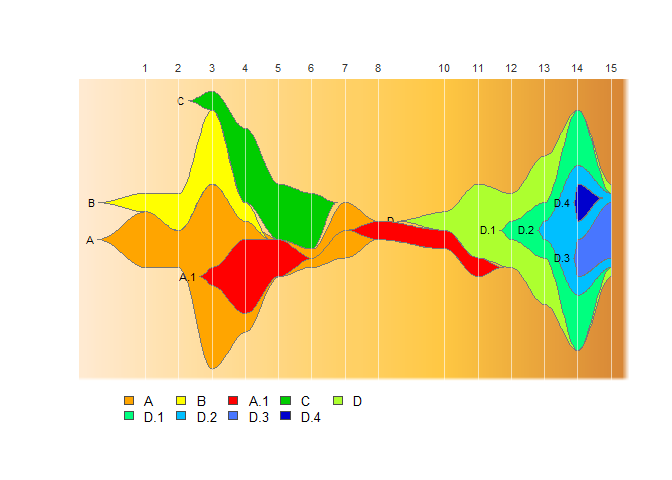
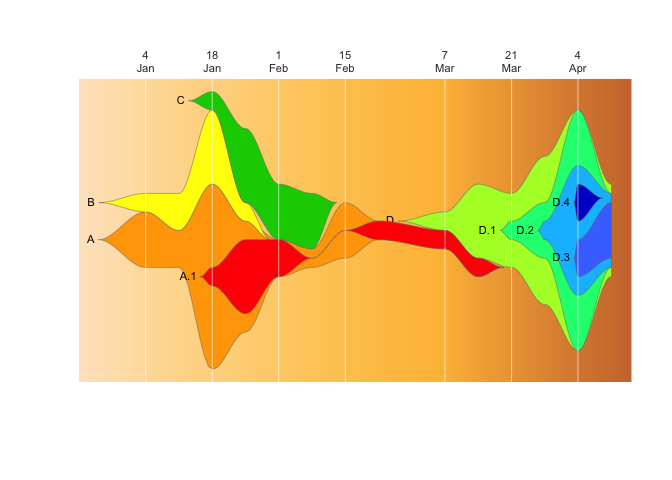
adding quick-start example to README

diff --git a/README.md b/README.md
@@ -11,24 +11,36 @@ This package provides tools to use Chris Miller’s fishplot package
 (<https://github.com/chrisamiller/fishplot>) with epidemiological
 datasets, to generate fishplot epi-curves.
 
-**Why?**  
-A count matrix for a fishplot has a set of specific rules which an
-epidemiological dataset will not naturally fulfil:
+**Why?**
 
-  - cluster counts can never go completely to zero, if cases reappear
-    later
+A fishplot is variety of
+[streamgraph](https://www.data-to-viz.com/graph/streamgraph.html), which
+is designed specifically for categorical data where where individual
+categories can mutate to form subcategories. Originally designed for
+[plotting evolution of tumor cell
+lineages,](https://bmcgenomics.biomedcentral.com/articles/10.1186/s12864-016-3195-z)
+we have found fishplots especially useful for illustrating the rise and
+fall of genomic clusters in disease outbreaks, which can have a similar
+evolutionary pattern.
+
+However, a count matrix for a fishplot has a set of specific rules which
+an epidemiological dataset will not naturally fulfill:
+
+  - cluster counts per timepoint can never go completely to zero, if
+    cases reappear later
   - if a cluster has a parent/child relationship, at every timepoint the
     parent must always have \>= the count of all its children.
   - counts should be normalised to fit the fishplot y-axis
 
-This package exists to make it easy to convert a list of samples into a
-normalised and appropriately “padded” relative count matrix that fulfils
-these requirements.
+This package exists to make it easy to convert a list of samples in an
+epidemological dataset into a normalised and appropriately “padded”
+relative count matrix that fulfils these requirements.
 
 ## Contents
 
   - [Installation](#installation)
-  - [Quick demo](#quick-demo)
+  - [Quick start](#quick-start)
+  - [Basic demo](#basic-demo)
   - [Input format](#input-format)
   - [Output](#output)
   - [Extras](#extras)
@@ -57,7 +69,53 @@ library(devtools)
 devtools::install_github("learithe/epifish")
 ```
 
+## Quick Start
+
+To get started with a basic epi fishplot, given an input file in the
+right format (details below), this is all you need:
+
+``` r
+# load required libraries
+library(fishplot); library(dplyr); library(tidyr); library(lubridate); library(epifish)
+
+# read data file
+sample_df <- read.csv("inst/extdata/samples.csv", stringsAsFactors=FALSE)
+
+# run epifish 
+epifish_output <- epifish::build_epifish( sample_df )
+
+# run fishplot on the epifish output
+fishplot::fishPlot( epifish_output$fish, shape="spline" )  
+```
+
+<img src="man/figures/README-unnamed-chunk-3-1.png" width="100%" />
+
+**If you want to include evolutionary relationships with subclusters:**
+
+``` r
+# load required libraries
+library(fishplot); library(dplyr); library(tidyr); library(lubridate); library(epifish)
+
+# read data files
+sample_df <- read.csv("inst/extdata/samples.csv", stringsAsFactors=FALSE)
+parent_df <- read.csv("inst/extdata/parents.csv", stringsAsFactors=FALSE)
+
+# run epifish 
+epifish_output <- epifish::build_epifish( sample_df, parent_df )
+
+# run fishplot on the epifish output
+fishplot::fishPlot( epifish_output$fish, shape="spline" )  
+```
+
+<img src="man/figures/README-unnamed-chunk-5-1.png" width="100%" />
+
 ## Quick demo
+
+*This demo expands on the quick-start example. It runs on a set of
+example data that is present within the epifish package, the files can
+be accessed here, in the
+[`inst/extdata`](https://github.com/learithe/epifish/tree/main/inst/extdata)
+directory.* <br><br>
 
 Load epifish and required
 packages
@@ -66,14 +124,14 @@ packages
 library(fishplot); library(dplyr); library(tidyr); library(lubridate); library(epifish)
 ```
 
-Read in the table of sample data, parent-child relationships, and custom
-colour
+Read in the tables of sample data, cluster parent-child relationships,
+and custom colour
 scheme:
 
 ``` r
-sample_df <- read.csv("epifish/inst/extdata/samples.csv", stringsAsFactors=FALSE)
-parent_df <- read.csv("epifish/inst/extdata/parents.csv", stringsAsFactors=FALSE)
-colour_df <- read.csv("epifish/inst/extdata/colours.csv", stringsAsFactors=FALSE)
+sample_df <- read.csv("inst/extdata/samples.csv", stringsAsFactors=FALSE)
+parent_df <- read.csv("inst/extdata/parents.csv", stringsAsFactors=FALSE)
+colour_df <- read.csv("inst/extdata/colours.csv", stringsAsFactors=FALSE)
 ```
 
 Use epifish to convert this into a fishplot object, with extra assorted
@@ -82,6 +140,11 @@ information:
 
 ``` r
 epifish_output <- epifish::build_epifish( sample_df, parent_df=parent_df, colour_df=colour_df)
+#> setting parent position of child A.1  to  1 
+#> setting parent position of child D.3  to  7 
+#> setting parent position of child D.2  to  6 
+#> setting parent position of child D.1  to  5 
+#> setting parent position of child D.4  to  7 
 #> Padding parent values in matrix: 
 #> adding child  D.4  to parent  D.2 
 #> adding child  D.3  to parent  D.2 
@@ -99,7 +162,7 @@ fishplot::fishPlot(epifish_output$fish, pad.left=0.1, shape="spline",
 fishplot::drawLegend(epifish_output$fish, nrow=1)
 ```
 
-<img src="man/figures/README-unnamed-chunk-4-1.png" width="100%" />
+<img src="man/figures/README-unnamed-chunk-7-1.png" width="100%" />
 
 If you’re happy with the default colours, or all your clusters are
 independent, you don’t need those dataframes:
@@ -113,12 +176,12 @@ fishplot::fishPlot(epifish_output$fish, pad.left=0.1, shape="spline",
 fishplot::drawLegend(epifish_output$fish, nrow=1)
 ```
 
-<img src="man/figures/README-unnamed-chunk-5-1.png" width="100%" />
+<img src="man/figures/README-unnamed-chunk-8-1.png" width="100%" />
 
 You also can automatically collapse any clusters of a minimum size into
 a group with `min_cluster_size`:  
-*Note: this does not work with parent/child relationships if any child
-clusters are
+*Note: this currently does not work well with parent/child relationships
+if any child clusters are
 small\!*
 
 ``` r
@@ -133,14 +196,15 @@ fishplot::fishPlot(epifish_output$fish, pad.left=0.1, shape="spline", vlines=epi
 fishplot::drawLegend(epifish_output$fish, nrow=1)
 ```
 
-<img src="man/figures/README-unnamed-chunk-6-1.png" width="100%" />
+<img src="man/figures/README-unnamed-chunk-9-1.png" width="100%" />
 
 ## Input format
 
 Example input files/templates can be found in the `inst/extdata` folder
 in this repository. The basic requirement is a data frame containing one
 row per sample, with columns `cluster_id` and `timepoint` (any other
-columns are ignored).
+columns are ignored). Optionally, the `timepoint` column can be
+calculated using epifish from a column of dates (see below).
 
 Optional data frames may also be provided that describe parent-child
 relationships for clusters (eg cluster A.1 evolved from cluster A), or a
@@ -530,7 +594,8 @@ D.2
 
 </table>
 
-**a custom colour scheme:**
+**a custom colour scheme:** (Note that you can use named ggplot colours,
+or hex codes (eg “red” or “\#ff0000”) )
 
 <table>
 
@@ -744,6 +809,11 @@ This is the extra summary data that epifish creates:
 ``` r
 
 epifish_output <- epifish::build_epifish( sample_df, parent_df=parent_df, colour_df=colour_df)
+#> setting parent position of child A.1  to  1 
+#> setting parent position of child D.3  to  7 
+#> setting parent position of child D.2  to  6 
+#> setting parent position of child D.1  to  5 
+#> setting parent position of child D.4  to  7 
 #> Padding parent values in matrix: 
 #> adding child  D.4  to parent  D.2 
 #> adding child  D.3  to parent  D.2 
@@ -1227,6 +1297,11 @@ sample_df$timepoint_label <- sample_df$epiweek_label
 
 #tell epifish to use the "timepoint_label" column we just created
 epifish_output <- epifish::build_epifish( sample_df, parent_df, colour_df, timepoint_labels=TRUE)
+#> setting parent position of child A.1  to  1 
+#> setting parent position of child D.3  to  7 
+#> setting parent position of child D.2  to  6 
+#> setting parent position of child D.1  to  5 
+#> setting parent position of child D.4  to  7 
 #> Padding parent values in matrix: 
 #> adding child  D.4  to parent  D.2 
 #> adding child  D.3  to parent  D.2 
@@ -1240,7 +1315,7 @@ fishplot::fishPlot(epifish_output$fish, pad.left=0.1, shape="spline",
 fishplot::drawLegend(epifish_output$fish, nrow=1)
 ```
 
-<img src="man/figures/README-unnamed-chunk-12-1.png" width="100%" />
+<img src="man/figures/README-unnamed-chunk-15-1.png" width="100%" />
 
 #### Use epi months as timepoints:
 
@@ -1261,6 +1336,11 @@ sample_df <- sample_df %>% rowwise() %>%
 
 #tell epifish to use the "timepoint_label" column we created above
 epifish_output <- epifish::build_epifish( sample_df, parent_df, colour_df, timepoint_labels=TRUE)
+#> setting parent position of child A.1  to  1 
+#> setting parent position of child D.3  to  7 
+#> setting parent position of child D.2  to  6 
+#> setting parent position of child D.1  to  5 
+#> setting parent position of child D.4  to  7 
 #> Padding parent values in matrix: 
 #> adding child  D.4  to parent  D.2 
 #> adding child  D.3  to parent  D.2 
@@ -1275,7 +1355,7 @@ fishplot::fishPlot(epifish_output$fish, pad.left=0.1, shape="polygon",
 fishplot::drawLegend(epifish_output$fish, nrow=1, xpos=0.7)
 ```
 
-<img src="man/figures/README-unnamed-chunk-13-1.png" width="100%" />
+<img src="man/figures/README-unnamed-chunk-16-1.png" width="100%" />
 
 ### Manual timepoints and labels
 
@@ -1292,6 +1372,11 @@ sample_df$timepoint_label <- sample_df$epiweek_label
 
 #run epifish
 epifish_output <- epifish::build_epifish( sample_df, parent_df, colour_df, timepoint_labels=TRUE)
+#> setting parent position of child A.1  to  1 
+#> setting parent position of child D.3  to  7 
+#> setting parent position of child D.2  to  6 
+#> setting parent position of child D.1  to  5 
+#> setting parent position of child D.4  to  7 
 #> Padding parent values in matrix: 
 #> adding child  D.4  to parent  D.2 
 #> adding child  D.3  to parent  D.2 
@@ -1309,7 +1394,7 @@ fishplot::fishPlot(epifish_output$fish, pad.left=0.1, shape="spline",
                    vlines=vlines, vlab=vlabs)
 ```
 
-<img src="man/figures/README-unnamed-chunk-14-1.png" width="100%" />
+<img src="man/figures/README-unnamed-chunk-17-1.png" width="100%" />
 
 Or add a “zero” timepoint with the first case, which starts on the
 fourth day of the first epi week (we’ll also make the text a bit smaller
@@ -1323,7 +1408,7 @@ fishplot::fishPlot(epifish_output$fish, pad.left=0.1, shape="spline",
                    vlines=vlines, vlab=vlabs, cex.vlab=0.5)
 ```
 
-<img src="man/figures/README-unnamed-chunk-15-1.png" width="100%" />
+<img src="man/figures/README-unnamed-chunk-18-1.png" width="100%" />
 
 Or we can use completely custom timepoints and labels that describe an
 epidemiological story, with red lines:
@@ -1336,7 +1421,7 @@ fishplot::fishPlot(epifish_output$fish, pad.left=0.1, shape="spline",
                    vlines=vlines, vlab=vlabs, col.vline="red")
 ```
 
-<img src="man/figures/README-unnamed-chunk-16-1.png" width="100%" />
+<img src="man/figures/README-unnamed-chunk-19-1.png" width="100%" />
 
 ### Control legend spacing
 
@@ -1354,7 +1439,7 @@ fishplot::fishPlot(epifish_output$fish, pad.left=0.1, shape="spline", vlines=epi
 fishplot::drawLegend(epifish_output$fish, nrow=2)
 ```
 
-<img src="man/figures/README-unnamed-chunk-18-1.png" width="100%" />
+<img src="man/figures/README-unnamed-chunk-21-1.png" width="100%" />
 
 **using `epifish::drawLegend2()` to adjust the legend
 spacing:**
@@ -1364,7 +1449,7 @@ fishplot::fishPlot(epifish_output$fish, pad.left=0.1, shape="spline", vlines=epi
 epifish::drawLegend2(epifish_output$fish, nrow=2, widthratio=0.3, xsp=0.2)
 ```
 
-<img src="man/figures/README-unnamed-chunk-19-1.png" width="100%" />
+<img src="man/figures/README-unnamed-chunk-22-1.png" width="100%" />
 
 ## Citation:
 
